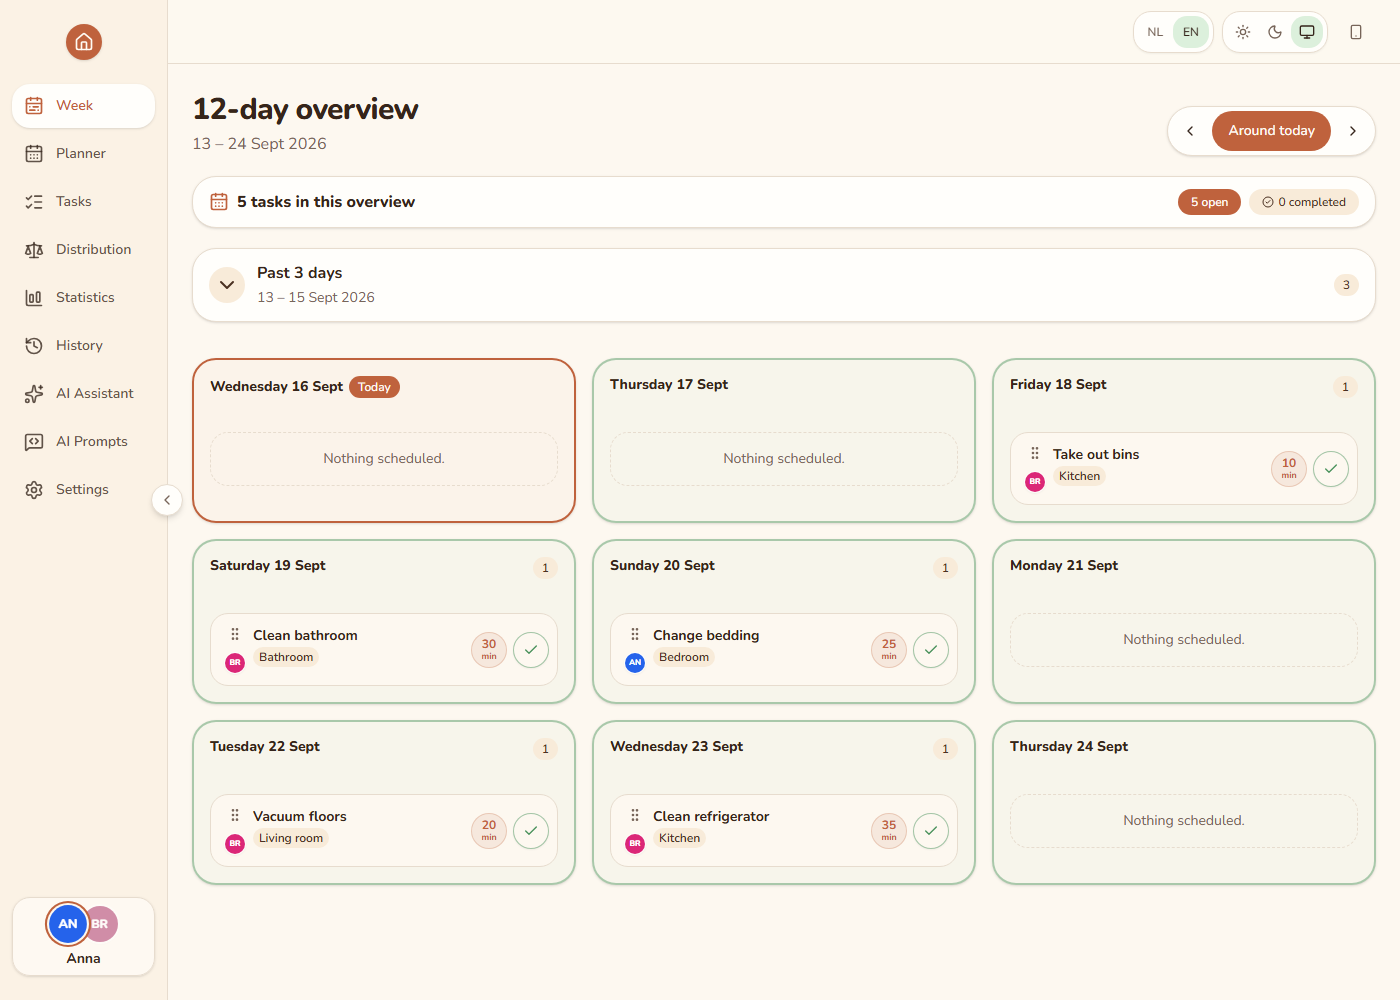
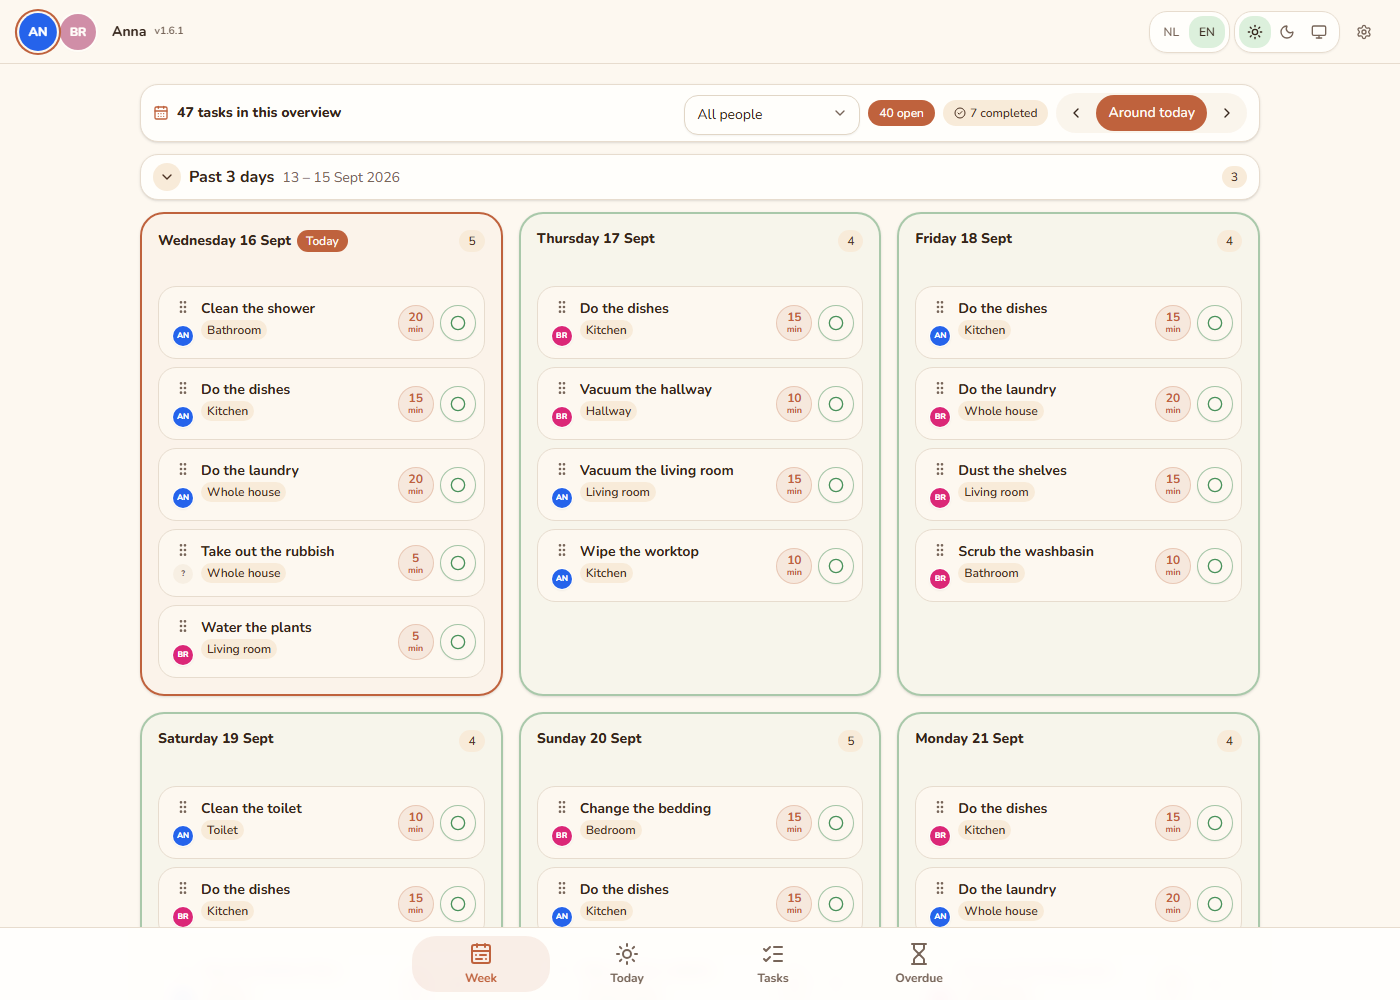
docs: regenerate the README screenshots from a scripted demo household
The screenshots showed an almost empty seeded household with Dutch room names and a local build version badge. A Playwright capture script now builds a realistic demo household, works through the first days of the cycle, and captures the three README images, so they can be refreshed with 'npm run screenshots' whenever the interface changes.

diff --git a/apps/web/e2e/screenshots.capture.ts b/apps/web/e2e/screenshots.capture.ts
@@ -1,0 +1,294 @@
+import { DEFAULT_INTERVALS } from '@huishoudplanner/shared';
+import { expect, test } from '@playwright/test';
+import { mkdir } from 'node:fs/promises';
+import { resolve } from 'node:path';
+import { startServer, type ApiUser, type AppServer } from './server.ts';
+
+/**
+ * Regenerates the README screenshots from a scripted demo household, so the
+ * images can be reproduced instead of being captured by hand. Run them with
+ * `npm run screenshots` after a UI change that the README shows.
+ */
+
+/** Monday 14 September 2026; the cycle starts here, so the week has a history. */
+const CYCLE_START = '2026-09-14T06:30:00.000Z';
+/** Wednesday 16 September 2026, 10:00 in Amsterdam: the day the screenshots show. */
+const NOW = '2026-09-16T08:00:00.000Z';
+const OUTPUT_DIR = resolve(import.meta.dirname, '../../../docs/screenshots');
+const CYCLE_DAYS = 28;
+
+/** The seeded rooms are Dutch; the published screenshots are English. */
+const ROOM_NAMES: Record<string, string> = {
+  Keuken: 'Kitchen',
+  Badkamer: 'Bathroom',
+  Toilet: 'Toilet',
+  Woonkamer: 'Living room',
+  Slaapkamer: 'Bedroom',
+  Hal: 'Hallway',
+  'Hele huis': 'Whole house',
+};
+
+interface DemoTask {
+  name: string;
+  room: string;
+  intervalKey: string;
+  durationMinutes: number;
+  /** Day of the cycle the first slot lands on; keeps chores off each other's days. */
+  offset: number;
+  /** Chores nobody owns end up in the "Anyone" row. */
+  unassigned?: boolean;
+  /** Left unplanned, so the planner screenshot shows the pool with work to distribute. */
+  inPool?: boolean;
+}
+
+const DEMO_TASKS: DemoTask[] = [
+  { name: 'Do the dishes', room: 'Kitchen', intervalKey: 'daily', durationMinutes: 15, offset: 0 },
+  { name: 'Wipe the worktop', room: 'Kitchen', intervalKey: '3w', durationMinutes: 10, offset: 1 },
+  {
+    name: 'Mop the kitchen floor',
+    room: 'Kitchen',
+    intervalKey: '1w',
+    durationMinutes: 20,
+    offset: 5,
+  },
+  { name: 'Clean the oven', room: 'Kitchen', intervalKey: '4wk', durationMinutes: 30, offset: 13 },
+  { name: 'Clean the shower', room: 'Bathroom', intervalKey: '1w', durationMinutes: 20, offset: 2 },
+  {
+    name: 'Scrub the washbasin',
+    room: 'Bathroom',
+    intervalKey: '2w',
+    durationMinutes: 10,
+    offset: 4,
+  },
+  {
+    name: 'Descale the taps',
+    room: 'Bathroom',
+    intervalKey: '4wk',
+    durationMinutes: 25,
+    offset: 20,
+    inPool: true,
+  },
+  { name: 'Clean the toilet', room: 'Toilet', intervalKey: '2w', durationMinutes: 10, offset: 1 },
+  {
+    name: 'Vacuum the living room',
+    room: 'Living room',
+    intervalKey: '2w',
+    durationMinutes: 15,
+    offset: 3,
+  },
+  {
+    name: 'Dust the shelves',
+    room: 'Living room',
+    intervalKey: '1w',
+    durationMinutes: 15,
+    offset: 4,
+  },
+  {
+    name: 'Water the plants',
+    room: 'Living room',
+    intervalKey: '3w',
+    durationMinutes: 5,
+    offset: 0,
+  },
+  {
+    name: 'Change the bedding',
+    room: 'Bedroom',
+    intervalKey: '2wk',
+    durationMinutes: 15,
+    offset: 6,
+  },
+  {
+    name: 'Vacuum the bedroom',
+    room: 'Bedroom',
+    intervalKey: '1w',
+    durationMinutes: 10,
+    offset: 6,
+  },
+  {
+    name: 'Vacuum the hallway',
+    room: 'Hallway',
+    intervalKey: '1w',
+    durationMinutes: 10,
+    offset: 3,
+  },
+  {
+    name: 'Do the laundry',
+    room: 'Whole house',
+    intervalKey: '3w',
+    durationMinutes: 20,
+    offset: 2,
+  },
+  {
+    name: 'Take out the rubbish',
+    room: 'Whole house',
+    intervalKey: '2w',
+    durationMinutes: 5,
+    offset: 2,
+    unassigned: true,
+  },
+];
+
+const WEEK_THEMES: [string, string, string, string] = [
+  'Kitchen week',
+  'Bathroom week',
+  'Living room week',
+  'Bedroom week',
+];
+
+interface ApiRoom {
+  _id: string;
+  name: string;
+}
+
+interface ApiTask {
+  _id: string;
+}
+
+interface ApiPlan {
+  _id: string;
+  active: boolean;
+}
+
+interface ApiOccurrence {
+  _id: string;
+  assigneeId: string | null;
+  status: string;
+}
+
+interface Slot {
+  taskId: string;
+  weekIndex: number;
+  weekday: number;
+  assigneeId: string | null;
+  sortOrder: number;
+}
+
+/** Spreads the required slots evenly over the cycle, starting at `offset`. */
+function cyclePositions(count: number, offset: number): number[] {
+  return Array.from(
+    { length: count },
+    (_, index) => (Math.round((index * CYCLE_DAYS) / count) + offset) % CYCLE_DAYS,
+  );
+}
+
+function slotsFor(task: DemoTask, taskId: string, taskIndex: number, people: ApiUser[]): Slot[] {
+  if (task.inPool) return [];
+  const required = DEFAULT_INTERVALS.find(
+    (interval) => interval.key === task.intervalKey,
+  )?.perCycle;
+  if (!required) throw new Error(`interval ${task.intervalKey} is not planned on the grid`);
+  return cyclePositions(required, task.offset).map((position, index) => ({
+    taskId,
+    weekIndex: Math.floor(position / 7),
+    // Cycle positions are Monday-first, while weekday 0 is Sunday.
+    weekday: ((position % 7) + 1) % 7,
+    assigneeId: task.unassigned ? null : people[(taskIndex + index) % people.length]!._id,
+    sortOrder: index,
+  }));
+}
+
+async function buildHousehold(app: AppServer, people: ApiUser[]) {
+  const admin = people[0]!;
+
+  for (const person of people) {
+    await app.api('PATCH', `/api/users/${person._id}`, {
+      as: admin,
+      body: { dailyBudgetMinutes: { weekday: 150, weekend: 90 } },
+    });
+  }
+
+  const rooms = await app.api<ApiRoom[]>('GET', '/api/rooms');
+  const roomIdByName = new Map<string, string>();
+  for (const room of rooms) {
+    const english = ROOM_NAMES[room.name];
+    if (!english) continue;
+    await app.api('PATCH', `/api/rooms/${room._id}`, { as: admin, body: { name: english } });
+    roomIdByName.set(english, room._id);
+  }
+
+  const slots: Slot[] = [];
+  for (const [index, demo] of DEMO_TASKS.entries()) {
+    const roomId = roomIdByName.get(demo.room);
+    if (!roomId) throw new Error(`no room named ${demo.room}`);
+    const task = await app.api<ApiTask>('POST', '/api/tasks', {
+      as: admin,
+      body: {
+        name: demo.name,
+        roomId,
+        intervalKey: demo.intervalKey,
+        durationMinutes: demo.durationMinutes,
+        defaultAssigneeId: null,
+      },
+    });
+    slots.push(...slotsFor(demo, task._id, index, people));
+  }
+
+  const plan = (await app.api<ApiPlan[]>('GET', '/api/cycle-plans')).find((item) => item.active);
+  if (!plan) throw new Error('the seeded plan is not active');
+  await app.api('PATCH', `/api/cycle-plans/${plan._id}`, {
+    as: admin,
+    body: { name: 'Standard', weekThemes: WEEK_THEMES },
+  });
+  await app.api('PUT', `/api/cycle-plans/${plan._id}/slots?sync=true`, {
+    as: admin,
+    body: { slots },
+  });
+  await app.api('POST', '/api/jobs/nightly', { as: admin });
+}
+
+/** Checks off that day's chores as the person they were planned for. */
+async function completeDay(app: AppServer, people: ApiUser[], day: string, leaveOpen = 0) {
+  const occurrences = await app.api<ApiOccurrence[]>(
+    'GET',
+    `/api/occurrences?from=${day}&to=${day}`,
+  );
+  const open = occurrences.filter(
+    (occurrence) => occurrence.status === 'open' && occurrence.assigneeId !== null,
+  );
+  for (const occurrence of open.slice(0, Math.max(0, open.length - leaveOpen))) {
+    const assignee = people.find((person) => person._id === occurrence.assigneeId);
+    if (!assignee) continue;
+    await app.api('PATCH', `/api/occurrences/${occurrence._id}`, {
+      as: assignee,
+      body: { action: 'complete' },
+    });
+  }
+}
+
+test('capture the README screenshots', async ({ page }) => {
+  const app = await startServer({ now: CYCLE_START, database: `screenshots_${Date.now()}` });
+  try {
+    const people = [await app.user('Anna'), await app.user('Bram')];
+    await buildHousehold(app, people);
+
+    // Live through the first days of the cycle, so the overview has a real history.
+    await completeDay(app, people, '2026-09-14');
+    await app.restart('2026-09-15T06:30:00.000Z');
+    await completeDay(app, people, '2026-09-15', 1);
+    await app.restart(NOW);
+    await completeDay(app, people, '2026-09-16', 4);
+
+    await mkdir(OUTPUT_DIR, { recursive: true });
+    await page.clock.setFixedTime(new Date(app.now));
+    await page.addInitScript((profileId) => {
+      window.localStorage.setItem('huishoudplanner.profileId', profileId);
+      window.localStorage.setItem('huishoudplanner.language', 'en');
+      window.localStorage.setItem('huishoudplanner.theme', 'light');
+    }, people[0]!._id);
+
+    await page.goto(`${app.baseURL}/`);
+    await page.getByLabel('Filter by person').selectOption('all');
+    await expect(page.getByTestId('week-day-grid')).toContainText('Do the dishes');
+    await page.screenshot({ path: resolve(OUTPUT_DIR, 'week-overview.png') });
+
+    await page.goto(`${app.baseURL}/manage/planner`);
+    await expect(page.getByText('Descale the taps').first()).toBeVisible();
+    await page.screenshot({ path: resolve(OUTPUT_DIR, 'four-week-planner.png') });
+
+    await page.goto(`${app.baseURL}/manage/distribution`);
+    await expect(page.getByText('Week 1', { exact: true }).first()).toBeVisible();
+    await page.screenshot({ path: resolve(OUTPUT_DIR, 'work-distribution.png') });
+  } finally {
+    await app.stop();
+  }
+});

diff --git a/apps/web/playwright.screenshots.config.ts b/apps/web/playwright.screenshots.config.ts
@@ -1,0 +1,24 @@
+import { defineConfig, devices } from '@playwright/test';
+
+/**
+ * Regenerates the README screenshots in docs/screenshots.
+ * Separate from playwright.config.ts so a normal E2E run never rewrites the images.
+ * The viewport is the published image size; English and light mode match the README.
+ */
+export default defineConfig({
+  testDir: './e2e',
+  testMatch: '**/screenshots.capture.ts',
+  globalSetup: './e2e/screenshotsSetup.ts',
+  workers: 1,
+  timeout: 180_000,
+  reporter: [['list']],
+  use: {
+    ...devices['Desktop Chrome'],
+    viewport: { width: 1400, height: 1000 },
+    deviceScaleFactor: 1,
+    locale: 'en-GB',
+    timezoneId: 'Europe/Amsterdam',
+    colorScheme: 'light',
+    serviceWorkers: 'block',
+  },
+});

diff --git a/apps/web/e2e/screenshotsSetup.ts b/apps/web/e2e/screenshotsSetup.ts
@@ -1,0 +1,19 @@
+import { spawnSync } from 'node:child_process';
+import { resolve } from 'node:path';
+import globalSetup from './globalSetup.ts';
+
+/**
+ * Builds the web app as a release build first, so the version badge in the
+ * published screenshots carries no local build timestamp, then starts the
+ * MongoDB the capture run needs.
+ */
+export default async function screenshotsSetup() {
+  const build = spawnSync('npm', ['run', 'build'], {
+    cwd: resolve(import.meta.dirname, '..'),
+    env: { ...process.env, APP_OFFICIAL_BUILD: 'true' },
+    stdio: 'inherit',
+    shell: true,
+  });
+  if (build.status !== 0) throw new Error(`web build failed with ${build.status}`);
+  return globalSetup();
+}

diff --git a/README.md b/README.md
@@ -16,7 +16,7 @@ A self-hosted household chore planner that turns a reusable four-week schedule i
 
 ![Household workload distribution](docs/screenshots/work-distribution.png)
 
-The screenshots use fictional people and sample chores.
+The screenshots show a scripted demo household with fictional people and sample chores. They are generated by `npm run screenshots`, so they can be refreshed whenever the interface changes.
 
 ## What it does
 
@@ -219,6 +219,7 @@ Useful commands:
 - `npm run verify` — run linting, type checking, and all unit, component, and API tests.
 - `npm run test:e2e` — build the web app and run Playwright end-to-end tests.
 - `npm run build` — build the web app into `apps/web/dist`.
+- `npm run screenshots` — regenerate the README screenshots from a scripted demo household.
 - `node scripts/smoke.mjs` — run an isolated Docker smoke test without touching an existing installation.
 
 Install the Playwright browser once before running end-to-end tests:
